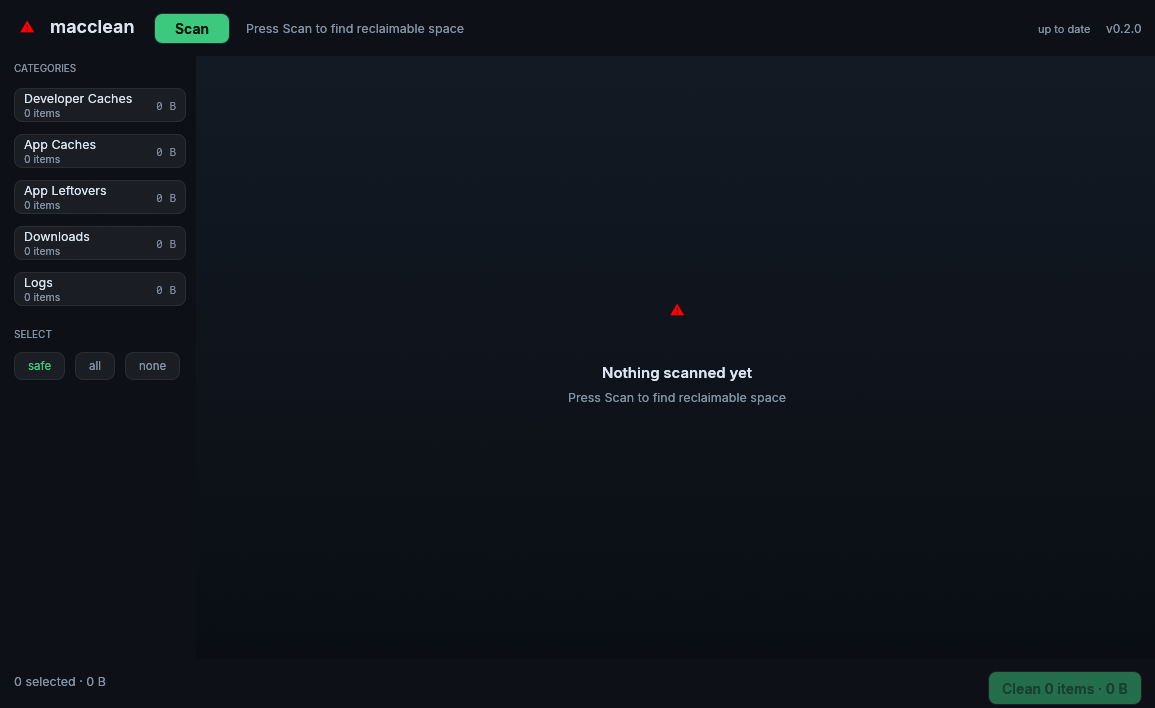
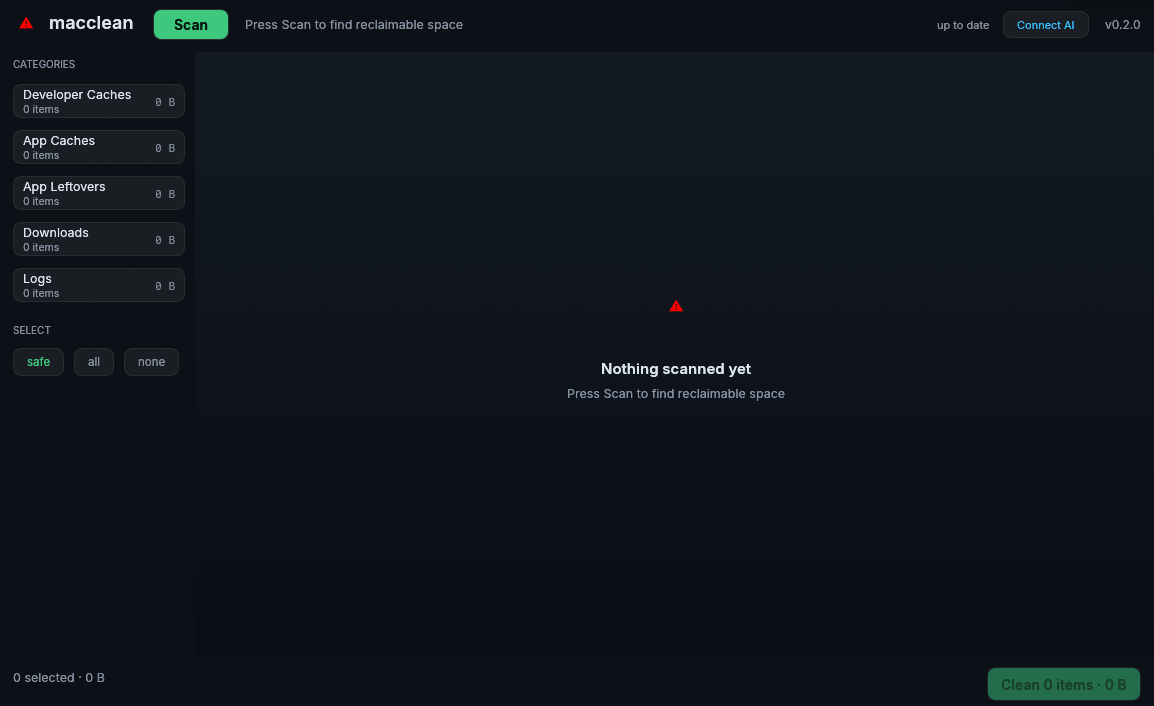
Landing: live version tag on download button + updated screenshots
New dark/light screenshots showing the Connect AI toolbar button,
and a version chip inside the download button that fetches
releases/latest from the GitHub API (static v0.2.0 fallback if the
API is unreachable or rate-limited).

Generated with [Devin](https://devin.ai)

diff --git a/docs/index.html b/docs/index.html
@@ -196,6 +196,7 @@
                class="btn btn-primary btn-lg shadow-lg shadow-primary/30">
               <svg xmlns="http://www.w3.org/2000/svg" class="h-5 w-5" fill="none" viewBox="0 0 24 24" stroke="currentColor" stroke-width="2"><path stroke-linecap="round" stroke-linejoin="round" d="M4 16v2a2 2 0 002 2h12a2 2 0 002-2v-2M12 4v12m0 0l-4-4m4 4l4-4"/></svg>
               <span data-i18n="hero.download">Download for macOS</span>
+              <span id="ver-tag" class="badge badge-sm border-base-content/30 bg-base-content/15 font-semibold">v0.2.0</span>
             </a>
             <a href="https://github.com/ranb27/macclean" class="btn btn-ghost btn-lg" data-i18n="hero.github">View on GitHub</a>
           </div>
@@ -667,6 +668,14 @@
         });
       }, { threshold: 0.4 }).observe(stepsList);
     }
+
+    // live version tag — falls back to the static text if the API is unreachable
+    fetch("https://api.github.com/repos/ranb27/macclean/releases/latest")
+      .then(r => r.ok ? r.json() : null)
+      .then(j => {
+        if (j?.tag_name) document.getElementById("ver-tag").textContent = j.tag_name;
+      })
+      .catch(() => {});
   </script>
 
   <!-- scroll reveals -->
